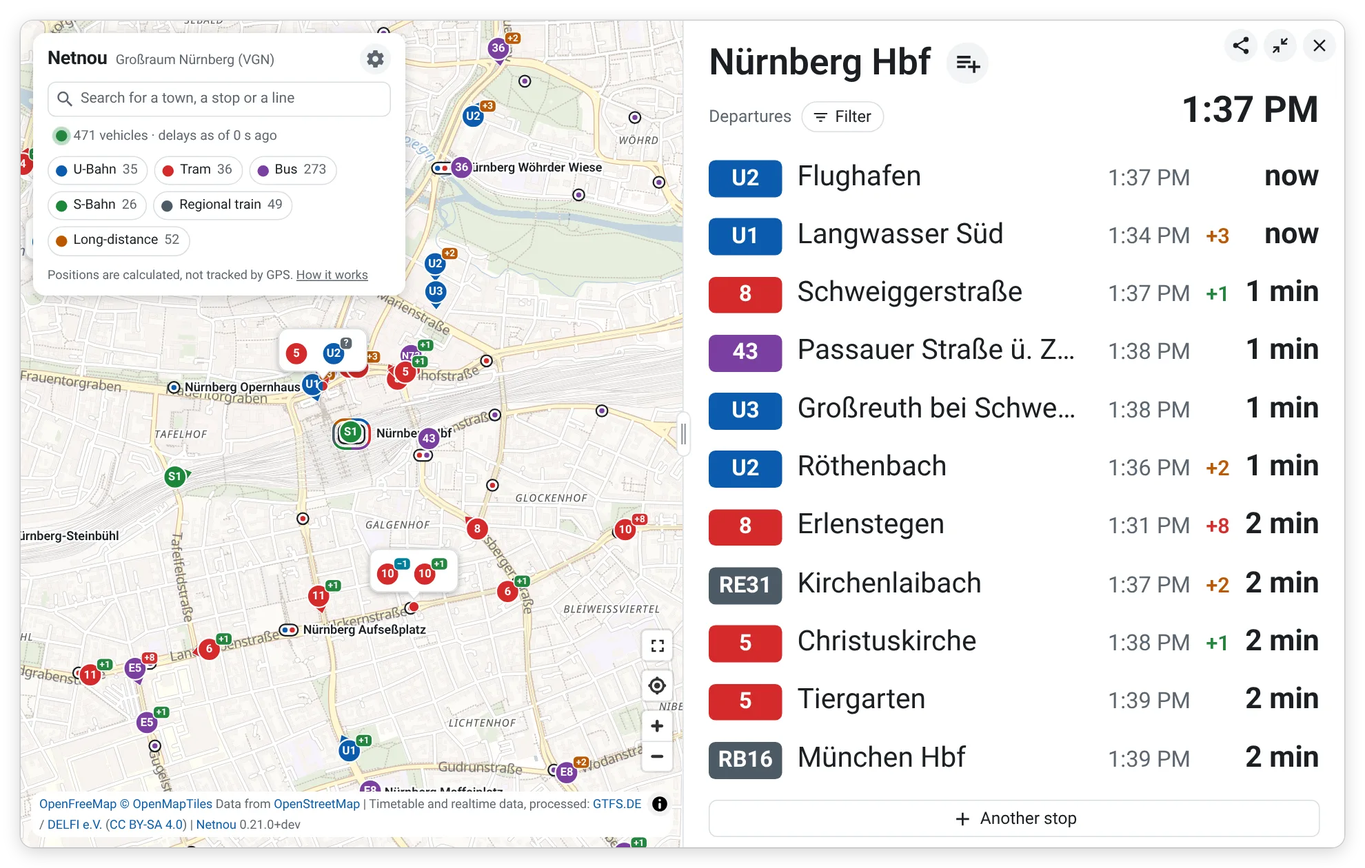
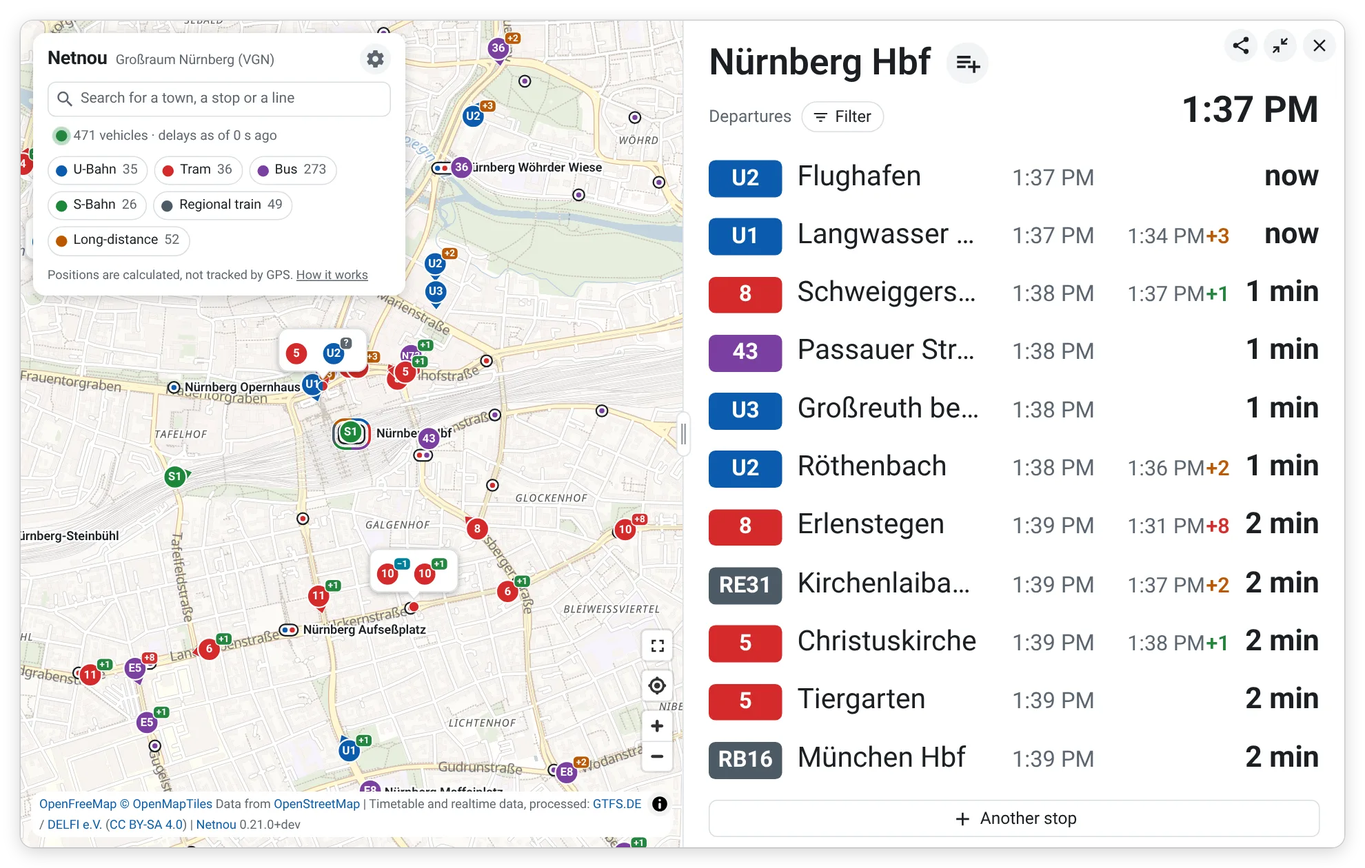
feat(page): times in the lists are when a train leaves, the delay a sum with the planned time
The departures of a stop, its lines, a trip and the board showed the
planned time and the delay beside it ("13:39 +2"), while they are in the
order the trains leave: "13:39 +2" stood below "13:41 ±0", and a rider had
to add up, or to wonder whether the delay was in the time already.

Now the time shown is when the train leaves or arrives, the planned time
moved by its delay in whole minutes, as the minutes already count. Beside it
the delay is a sum with the planned time: "13:37 13:36+1", the planned time
grey and as wide as any clock time, so that the signs line up down a list.
On time "±0" stands alone in its place; without a delay known, nothing. The
board still says nothing where a train is on time. With "Minuten" the delay
stands alone beside the minutes, as before, and a departure more than an hour
off shows the time it leaves where the minutes stand. A screen reader hears
"geplant 13:36" / "planned 1:36 PM" before the delay. The vehicles' flags on
the map keep "+2".

The column of the delay is sized from the clock time of the language: 58 px
in German, where it was 30, and more for "1:36 PM".

diff --git a/test/panel.test.js b/test/panel.test.js
@@ -36,14 +36,20 @@ test('a delay is shown in whole minutes, and its colour is that of what it shows
 
 test('the departures of a stop: a row each that opens its trip, with its time, delay, line, destination and platform', () => {
   const board = { name: 'Plärrer', departures: [departure(4, { delay: 120, platform: '2' }), departure(70, { line: '4', mode: 'tram', to: 'Gibitzenhof' })] };
+  // the time it leaves, and beside it the delay as a sum with the planned time, which a screen reader is told is planned
   assert.equal(html(departureLists(board, drawing('time'))), '<ul class="rows">'
-    + '<li><button type="button" class="row departure times-time" data-trip="T4_20261023"><span class="time">10:04</span><span class="delay" data-delay="minor">+2</span><span class="badge" data-mode="subway">U1</span><span class="name" title="Langwasser Süd">Langwasser Süd</span><span class="platform">Plat. 2</span></button></li>'
+    + '<li><button type="button" class="row departure times-time" data-trip="T4_20261023"><span class="time">10:06</span><span class="delay" data-delay="minor"><span class="planned"><span aria-hidden="true">10:04</span><span class="spoken">planned 10:04 </span></span>+2</span><span class="badge" data-mode="subway">U1</span><span class="name" title="Langwasser Süd">Langwasser Süd</span><span class="platform">Plat. 2</span></button></li>'
     + '<li><button type="button" class="row departure times-time" data-trip="T70_20261023"><span class="time">11:10</span><span class="delay" data-delay="none"></span><span class="badge" data-mode="tram">4</span><span class="name" title="Gibitzenhof">Gibitzenhof</span><span class="platform"></span></button></li>'
     + '</ul>');
-  // in minutes, which the page counts down by themselves: with its delay, and beyond the hour its time of day
-  const minutes = html(departureLists(board, drawing('minutes')));
-  assert.ok(minutes.includes(`<span class="minutes" data-leaves="${NOW + 6 * 60}" data-planned="${NOW + 4 * 60}" data-far="time">6 min</span>`));
-  assert.ok(minutes.includes(`<span class="minutes" data-leaves="${NOW + 70 * 60}" data-planned="${NOW + 70 * 60}" data-far="time">11:10</span>`));
+  // on time, "±0" alone where the delays stand (the planned time would say the same); early, a sum with a minus
+  const early = html(departureLists({ name: 'Plärrer', departures: [departure(4, { delay: 20 }), departure(5, { delay: -60 })] }, drawing('time')));
+  assert.ok(early.includes('<span class="time">10:04</span><span class="delay" data-delay="ok"><span class="planned"></span>±0</span>'));
+  assert.ok(early.includes('<span class="time">10:04</span><span class="delay" data-delay="early"><span class="planned"><span aria-hidden="true">10:05</span><span class="spoken">planned 10:05 </span></span>−1</span>'));
+  // in minutes, which the page counts down by themselves: with the delay alone, and beyond the hour the time it leaves
+  const minutes = html(departureLists({ ...board, departures: [...board.departures, departure(80, { delay: 180 })] }, drawing('minutes')));
+  assert.ok(minutes.includes(`<span class="minutes" data-leaves="${NOW + 6 * 60}" data-far="time">6 min</span><span class="delay" data-delay="minor">+2</span>`));
+  assert.ok(minutes.includes(`<span class="minutes" data-leaves="${NOW + 70 * 60}" data-far="time">11:10</span>`));
+  assert.ok(minutes.includes(`<span class="minutes" data-leaves="${NOW + 83 * 60}" data-far="time">11:23</span><span class="delay" data-delay="minor">+3</span>`));
   // both: the time of day first, the minutes at the end, and nothing there beyond the hour
   const both = html(departureLists(board, drawing('both')));
   assert.ok(both.includes('<span class="platform">Plat. 2</span><span class="minutes" data-leaves'));
@@ -115,7 +121,7 @@ test('all lines of a stop: the badge of each leading to it, beside its ways with
   // the badge is a link to the line's page, which the page opens itself by what data-line says
   assert.ok(out.startsWith(`<h3 class="rows-head">${en['mode.subway']}</h3><ul class="line-rows"><li><a class="to-line" href="line/vag/subway/u1" aria-label="To line U1" title="To line U1" data-line="{&#34;name&#34;:&#34;U1&#34;,&#34;mode&#34;:&#34;subway&#34;,&#34;agency&#34;:&#34;VAG&#34;,&#34;at&#34;:[49.45,11.07]}"><span class="badge" data-mode="subway">U1<svg class="icon"`));
   // a way: its next departure as a row without the badge, which opens its trip, going where that trip goes
-  assert.ok(out.includes(`<ul><li><button type="button" class="row departure times-both by-line" data-trip="T4_20261023"><span class="time">10:04</span><span class="delay" data-delay="minor">+2</span><span class="name" title="Messe">Messe</span><span class="platform"></span><span class="minutes" data-leaves="${NOW + 6 * 60}"`));
+  assert.ok(out.includes(`<ul><li><button type="button" class="row departure times-both by-line" data-trip="T4_20261023"><span class="time">10:06</span><span class="delay" data-delay="minor"><span class="planned"><span aria-hidden="true">10:04</span><span class="spoken">planned 10:04 </span></span>+2</span><span class="name" title="Messe">Messe</span><span class="platform"></span><span class="minutes" data-leaves="${NOW + 6 * 60}"`));
   // one with no departure in the next 24 hours: in short where the time stands, in full under a mouse; it opens nothing
   assert.ok(out.includes(`<li><div class="row departure times-both by-line resting"><abbr class="later" title="${en['lines.laterLong']}">${en['lines.later']}</abbr><span class="name" title="Fürth Hardhöhe">Fürth Hardhöhe</span></div></li></ul></li></ul>`));
   // of another day: it says so where the minutes stand; and the kind and name are the line's
@@ -124,7 +130,7 @@ test('all lines of a stop: the badge of each leading to it, beside its ways with
   // of one kind only, no heading; in minutes, the minutes where the time stands; none at all, as the departures say it
   const minutes = html(lineLists({ lines: [u1] }, drawing('minutes')));
   assert.ok(minutes.startsWith('<ul class="line-rows"><li>'));
-  assert.ok(minutes.includes(`<button type="button" class="row departure times-minutes by-line" data-trip="T4_20261023"><span class="minutes" data-leaves="${NOW + 6 * 60}" data-planned="${NOW + 4 * 60}" data-far="time">6 min</span>`));
+  assert.ok(minutes.includes(`<button type="button" class="row departure times-minutes by-line" data-trip="T4_20261023"><span class="minutes" data-leaves="${NOW + 6 * 60}" data-far="time">6 min</span>`));
   assert.ok(minutes.includes('<div class="row departure times-minutes by-line resting">'));
   assert.equal(html(lineLists({ lines: [] }, drawing())), `<p class="panel-empty">${en['departures.none']}</p>`);
   // a list with a train that has something wrong with it keeps the place of the sign in every row

diff --git a/public/style.css b/public/style.css
@@ -778,13 +778,15 @@ button:focus-visible, select:focus-visible, .row:focus-visible, .panel:focus-vis
    notes. */
 .row .late { white-space: nowrap; }
 .row .late .delay { display: inline-block; width: 32px; }
-.rows.signed .row.departure { grid-template-columns: var(--time-width) 45px auto 1fr auto; }
+/* (with the planned time in it, see --late-width) */
+.row:not(.times-minutes) .late .delay { width: calc((var(--time-chars, 5) + 3) * 1ch + 2px); }
+.rows.signed .row.departure { grid-template-columns: var(--time-width) calc(var(--late-width) + 15px) auto 1fr auto; }
 /* Departure times as minutes (#81): in place of the time of day, or with both at the end of the row, after a platform. */
 .row .minutes { font-variant-numeric: tabular-nums; font-weight: 650; white-space: nowrap; }
 .row.departure.times-minutes { grid-template-columns: var(--minutes-width) 30px auto 1fr auto; }
 .rows.signed .row.departure.times-minutes { grid-template-columns: var(--minutes-width) 45px auto 1fr auto; }
-.row.departure.times-both { grid-template-columns: var(--time-width) 30px auto 1fr auto auto; }
-.rows.signed .row.departure.times-both { grid-template-columns: var(--time-width) 45px auto 1fr auto auto; }
+.row.departure.times-both { grid-template-columns: var(--time-width) var(--late-width) auto 1fr auto auto; }
+.rows.signed .row.departure.times-both { grid-template-columns: var(--time-width) calc(var(--late-width) + 15px) auto 1fr auto auto; }
 .row.departure.times-both .minutes { text-align: right; }
 .row.cancelled .minutes { text-decoration: line-through; color: var(--text-muted); font-weight: 400; }
 
@@ -909,22 +911,24 @@ button.line-vehicle { position: absolute; left: -18px; top: -18px; width: 36px; 
 .line-rows > li + li { margin-top: 4px; }
 .line-rows .to-line { justify-self: start; margin: 0; padding: 6px 10px 6px 14px; color: inherit; text-decoration: none; }
 .line-rows ul { list-style: none; margin: 0; padding: 0; min-width: 0; }
-.row.departure.by-line { padding-left: 0; grid-template-columns: var(--time-width) 30px minmax(0, 1fr) auto auto; }
+.row.departure.by-line { padding-left: 0; grid-template-columns: var(--time-width) var(--late-width) minmax(0, 1fr) auto auto; }
 .row.departure.by-line.times-minutes { grid-template-columns: var(--minutes-width) 30px minmax(0, 1fr) auto auto; }
-.line-rows.signed .row.departure.by-line { grid-template-columns: var(--time-width) 45px minmax(0, 1fr) auto auto; }
+.line-rows.signed .row.departure.by-line { grid-template-columns: var(--time-width) calc(var(--late-width) + 15px) minmax(0, 1fr) auto auto; }
 .line-rows.signed .row.departure.by-line.times-minutes { grid-template-columns: var(--minutes-width) 45px minmax(0, 1fr) auto auto; }
 .row.by-line .day { color: var(--text-muted); white-space: nowrap; }
-.row.departure.by-line.resting { grid-template-columns: calc(var(--time-width) + 38px) minmax(0, 1fr); cursor: default; }
+.row.departure.by-line.resting { grid-template-columns: calc(var(--time-width) + var(--late-width) + 8px) minmax(0, 1fr); cursor: default; }
 .row.departure.by-line.resting.times-minutes { grid-template-columns: calc(var(--minutes-width) + 38px) minmax(0, 1fr); }
-.line-rows.signed .row.departure.by-line.resting { grid-template-columns: calc(var(--time-width) + 53px) minmax(0, 1fr); }
+.line-rows.signed .row.departure.by-line.resting { grid-template-columns: calc(var(--time-width) + var(--late-width) + 23px) minmax(0, 1fr); }
 .line-rows.signed .row.departure.by-line.resting.times-minutes { grid-template-columns: calc(var(--minutes-width) + 53px) minmax(0, 1fr); }
 .row.resting:hover { background: none; }
 .row.resting .later { color: var(--text-muted); font-size: 12.5px; white-space: nowrap; text-decoration: none; }
 
-/* --time-chars: how many characters a clock time has at most in the visitor's language (app.js sets it) */
-.row { --time-width: calc(var(--time-chars, 5) * 1ch + 4px); --minutes-width: calc(var(--minutes-chars, 7) * 1ch + 4px); }
-.row.departure { grid-template-columns: var(--time-width) 30px auto 1fr auto; }
-.row.stop { grid-template-columns: 14px var(--time-width) 30px 1fr auto; }
+/* --time-chars: how many characters a clock time has at most in the visitor's language (app.js sets it).
+   --late-width: the delay as a sum with the planned time, "13:36+12": a clock
+   time and three characters more, in the delay's 12.5 px (0.9 of the row's ch). */
+.row { --time-width: calc(var(--time-chars, 5) * 1ch + 4px); --minutes-width: calc(var(--minutes-chars, 7) * 1ch + 4px); --late-width: calc((var(--time-chars, 5) + 3) * 0.9ch + 2px); }
+.row.departure { grid-template-columns: var(--time-width) var(--late-width) auto 1fr auto; }
+.row.stop { grid-template-columns: 14px var(--time-width) var(--late-width) 1fr auto; }
 .row.stop.past { color: var(--text-muted); }
 .row.stop.next .name { font-weight: 650; }
 
@@ -959,6 +963,11 @@ li:last-child > .row.stop .rail::before { bottom: 50%; }
 
 /* As text a delay is one class "hotter" than as a dot: the yellow is too pale to read on the card. */
 .delay { font-size: 12.5px; font-weight: 650; font-variant-numeric: tabular-nums; white-space: nowrap; }
+/* The planned time before a delay, as a sum with it: grey, and as wide as any
+   clock time, so that the signs line up down a list; empty where on time (delaySum in panel.js). */
+.delay .planned { display: inline-block; width: calc(var(--time-chars, 5) * 1ch); margin-right: 1px; text-align: right; color: var(--text-muted); font-weight: 400; }
+/* (said by a screen reader, not seen) */
+.spoken { position: absolute; width: 1px; height: 1px; overflow: hidden; clip-path: inset(50%); white-space: nowrap; }
 .delay[data-delay="early"] { color: var(--delay-early-text); }
 .delay[data-delay="ok"] { color: var(--delay-ok-text); }
 .delay[data-delay="minor"] { color: var(--delay-major-text); }

diff --git a/public/app.js b/public/app.js
@@ -13,7 +13,7 @@ import { APP_NAME, READMES, dayOf, formatNumber, formatTime, languagePicker, loa
 import { FAVOURITE_NAME_ZOOM, HEART_MIDDLE, PLACES_ZOOM, RAIL_MODES, heartMark, joiningLines, mergePlaces, namePrecedence, namedAt, placeNames, stopMark, townToShow, townsAlong, withoutStyleStops } from './stops.js';
 import { favouritesFrom, isFavourite, lineFavourite, sameStop, stopFavourite, withChoice, withFavourite } from './favourites.js';
 import { choiceValue, readChoice, toggled } from './choice.js';
-import { DELAY_MAJOR_S, DELAY_MINOR_S, DELAY_SEVERE_S, MINUTES_MAX, NOTE_CHARS, badge as badgeOf, choiceChip as choiceChipOf, delayCell as delayCellOf, delayClass, delayNode as delayNodeOf, delayFlag, delayText, departureLists, departuresSub as departuresSubOf, directionSign as directionSignOf, leavesAt, lineHead, lineLists, lineStops, minutesNode as minutesNodeOf, trackAt, VEHICLE_R, panelHead as panelHeadOf, stopHeading, tomorrowAt as tomorrowAtOf, untilText as untilTextOf, vehicleLabel, warningSign as warningSignOf, warns } from './panel.js';
+import { DELAY_MAJOR_S, DELAY_MINOR_S, DELAY_SEVERE_S, MINUTES_MAX, NOTE_CHARS, badge as badgeOf, choiceChip as choiceChipOf, delayCell as delayCellOf, delayClass, delayNode as delayNodeOf, delaySum as delaySumOf, delayFlag, delayText, departureLists, departuresSub as departuresSubOf, directionSign as directionSignOf, leavesAt, lineHead, lineLists, lineStops, minutesNode as minutesNodeOf, trackAt, VEHICLE_R, panelHead as panelHeadOf, stopHeading, tomorrowAt as tomorrowAtOf, untilText as untilTextOf, vehicleLabel, warningSign as warningSignOf, warns } from './panel.js';
 import { BOARD_MAX, BOARD_SHARE, BOARD_STOPS, boardBlocks, boardQuery, boardShare, displayQuery, ledBy, readBoard, readDisplay, readStops } from './display.js';
 import { mdiArrowCollapse, mdiArrowExpand, mdiChevronRight, mdiCityVariantOutline, mdiFullscreen, mdiFullscreenExit, mdiHeart, mdiHeartOutline, mdiMinusCircleOutline, mdiPlaylistPlus, mdiPlus } from './vendor/material-design-icons/icons.js';
 import { AttributionControl, MapLibreMap, NavigationControl } from './vendor/maplibre-gl/maplibre-gl.mjs';
@@ -3238,8 +3238,8 @@ function renderTrip(trip, scrollToNext) {
     if (towns[i]) classes.push('in-town');
     const row = el('button', { type: 'button', class: classes.join(' '), onclick: () => select('station', stop.station) }, [
       el('span', { class: 'rail' }),
-      el('span', { class: 'time', text: formatTime(planned) }),
-      stop.skipped ? el('span') : delayNode(delay),
+      el('span', { class: 'time', text: formatTime(leavesAt({ planned, delay })) }),
+      stop.skipped ? el('span') : delaySum(planned, delay),
       nameInTown(stop.name, towns[i], { title: stop.name }),
       el('span', { class: 'platform', text: stop.skipped ? t('stop.skipped') : platformText(stop.platform) }),
     ]);
@@ -3382,8 +3382,13 @@ function renderLine(line, first) {
 const minutesUntil = (leaves) => Math.floor(leaves / 60) - Math.floor(now() / 60);
 
 /** How long until a departure leaves (panel.js). */
-function untilText(leaves, planned, far) {
-  return untilTextOf(leaves, planned, far, drawing());
+function untilText(leaves, far) {
+  return untilTextOf(leaves, far, drawing());
+}
+
+/** A delay beside the time a train leaves or arrives, as a sum with the planned time (panel.js). */
+function delaySum(planned, delay) {
+  return toDom(delaySumOf(planned, delay, drawing()));
 }
 
 /** The minutes until a departure leaves, which count down by themselves between two answers of the server (tickTimes). */
@@ -3402,7 +3407,7 @@ function tickTimes() {
   const update = (node, text) => {
     if (node.textContent !== text) node.textContent = text;
   };
-  for (const node of panel.querySelectorAll('.minutes[data-leaves]')) update(node, untilText(Number(node.dataset.leaves), Number(node.dataset.planned), node.dataset.far));
+  for (const node of panel.querySelectorAll('.minutes[data-leaves]')) update(node, untilText(Number(node.dataset.leaves), node.dataset.far));
   const clock = panel.querySelector('.board-clock');
   if (clock) update(clock, formatTime(now()));
 }
@@ -3738,10 +3743,11 @@ function renderBoard(board) {
 function boardRow(dep, times, from = null) {
   // (a delay shows where there is one: on time the board says nothing)
   const delay = Math.round((dep.delay ?? 0) / 60) === 0 ? null : dep.delay;
-  const late = delayCell(delayNode(delay), dep.warnings, dep.warnings.length > 0);
+  // (with the time it leaves, as a sum with the planned time; before the minutes, alone)
+  const late = delayCell(times === 'minutes' ? delayNode(delay) : delaySum(dep.planned, delay), dep.warnings, dep.warnings.length > 0);
   // (further off than an hour, the time of day stands where the minutes do, and with both not twice)
   const far = minutesUntil(leavesAt(dep)) > MINUTES_MAX;
-  const at = (shown = true) => el('span', { class: 'at', text: shown ? formatTime(dep.planned) : '' });
+  const at = (shown = true) => el('span', { class: 'at', text: shown ? formatTime(leavesAt(dep)) : '' });
   const when = dep.cancelled ? [el('span', { class: 'gone', text: t('departures.cancelled') })]
     : times === 'time' ? [at(), late]
       : times === 'minutes' ? [late, minutesNode(dep, 'time')]

diff --git a/public/panel.js b/public/panel.js
@@ -81,6 +81,24 @@ export const badge = (line, mode, ...more) => h('span', { class: 'badge', 'data-
 
 export const delayNode = (delay) => h('span', { class: 'delay', 'data-delay': delayClass(delay) }, delayText(delay));
 
+/**
+ * The delay where a list shows the time a train leaves or arrives: as a sum
+ * with the planned time, "13:36+1" after "13:37", the planned time grey and
+ * as wide as any clock time, so that the signs line up down the list
+ * (style.css). On time the planned time is left out and "±0" stands
+ * in its place; without a delay known, nothing. A screen reader hears
+ * "planned 13:36" before the delay.
+ * @param context { t, time }: the texts and the time of day of a moment
+ */
+export function delaySum(planned, delay, { t, time }) {
+  const text = delayText(delay);
+  if (!text) return delayNode(delay);
+  const shown = leavesAt({ planned, delay }) !== planned;
+  return h('span', { class: 'delay', 'data-delay': delayClass(delay) },
+    h('span', { class: 'planned' }, shown ? [h('span', { 'aria-hidden': 'true' }, time(planned)), h('span', { class: 'spoken' }, `${t('departures.planned', { time: time(planned) })} `)] : null),
+    text);
+}
+
 /** Whether a note of the feed warns: of what is wrong with a trip or a stop right now, such as the reason for a delay. */
 export const warns = (note) => note.severity === 'warning' || note.severity === 'severe';
 
@@ -125,21 +143,21 @@ export const leavesAt = (dep) => dep.planned + Math.round((dep.delay ?? 0) / 60)
 
 /**
  * How long until a departure leaves: "4 min", "now" under a minute. Further
- * off than an hour its time of day says more (#165): that, or nothing where
- * the row has it already.
+ * off than an hour the time it leaves says more (#165): that, or nothing
+ * where the row has it already.
  * @param far 'time' or 'none': what stands there beyond the hour
  * @param context { t, time, now }: the texts, the time of day of a moment, and now (epoch seconds)
  */
-export function untilText(leaves, planned, far, { t, time, now }) {
+export function untilText(leaves, far, { t, time, now }) {
   const minutes = Math.floor(leaves / 60) - Math.floor(now / 60);
-  if (minutes > MINUTES_MAX) return far === 'time' ? time(planned) : '';
+  if (minutes > MINUTES_MAX) return far === 'time' ? time(leaves) : '';
   return minutes < 1 ? t('departures.now') : t('departures.minutes', { count: minutes });
 }
 
 /** The minutes until a departure leaves, which the page counts down by themselves between two answers of the server (tickTimes in app.js). */
 export function minutesNode(dep, far, context) {
   const leaves = leavesAt(dep);
-  return h('span', { class: 'minutes', 'data-leaves': leaves, 'data-planned': dep.planned, 'data-far': far }, untilText(leaves, dep.planned, far, context));
+  return h('span', { class: 'minutes', 'data-leaves': leaves, 'data-far': far }, untilText(leaves, far, context));
 }
 
 /**
@@ -175,8 +193,10 @@ export function departureLists(board, context) {
 }
 
 /**
- * The row of a departure, which opens its trip: the time of day first, or
- * the minutes in its place; with both, the minutes at the end of the row.
+ * The row of a departure, which opens its trip: the time it leaves first,
+ * with the planned time and the delay beside it as a sum (delaySum), or the
+ * minutes in its place with the delay alone; with both, the minutes at the
+ * end of the row.
  * @param signed whether a train of its list has something wrong with it (delayCell)
  * @param byLine whether it is the next departure of a way in the list of a
  *   stop's lines (lineLists): without the badge, which its line has, and
@@ -186,8 +206,8 @@ function departureRow(dep, signed, context, byLine = false) {
   const { t, time, day, now, times } = context;
   const later = byLine && day(dep.planned) > day(now);
   return h('button', { type: 'button', class: `row departure times-${times}${byLine ? ' by-line' : ''}${dep.cancelled ? ' cancelled' : ''}`, 'data-trip': dep.trip },
-    times === 'minutes' ? minutesNode(dep, 'time', context) : h('span', { class: 'time' }, time(dep.planned)),
-    delayCell(dep.cancelled ? h('span', { class: 'delay' }) : delayNode(dep.delay), dep.warnings, signed, context),
+    times === 'minutes' ? minutesNode(dep, 'time', context) : h('span', { class: 'time' }, time(leavesAt(dep))),
+    delayCell(dep.cancelled ? h('span', { class: 'delay' }) : times === 'minutes' ? delayNode(dep.delay) : delaySum(dep.planned, dep.delay, context), dep.warnings, signed, context),
     byLine ? null : badge(dep.line, dep.mode),
     h('span', { class: 'name', title: dep.to }, dep.to),
     h('span', { class: 'platform' }, dep.cancelled ? t('departures.cancelled') : dep.platform ? t('stop.platform', { platform: dep.platform }) : ''),

diff --git a/test/page.test.js b/test/page.test.js
@@ -486,13 +486,13 @@ test('the page of a stop or a line has its details in it as they are, with their
   assert.ok(panelHtml('stop', { ...board, name: 'Nürnberg Plärrer', town: 'Nürnberg' }, at).head.startsWith('<div class="panel-head"><h1>Nürnberg Plärrer</h1>'));
   assert.ok(stop.head.startsWith('<div class="panel-head"><h1>Plärrer</h1><p class="sub with-choice"><span class="view-switch" role="group" aria-label="Ansicht"><button type="button" aria-pressed="true" data-view="departures">Nächste Abfahrten</button><button type="button" aria-pressed="false" data-view="lines">Alle Linien</button></span><span class="choice"><button type="button" class="choice-open" aria-label="Filter"'));
   // the times as the page shows them until the visitor chooses otherwise, both: the time of day where the area is, and the minutes
-  assert.equal(stop.body, '<ul class="rows"><li><button type="button" class="row departure times-both" data-trip="T1_20261023"><span class="time">12:04</span><span class="delay" data-delay="ok">+1</span><span class="badge" data-mode="subway">U1</span><span class="name" title="Langwasser Süd">Langwasser Süd</span><span class="platform">Gl. 2</span>'
-    + `<span class="minutes" data-leaves="${now + 300}" data-planned="${now + 240}" data-far="none">5 min</span></button></li></ul>`
+  assert.equal(stop.body, '<ul class="rows"><li><button type="button" class="row departure times-both" data-trip="T1_20261023"><span class="time">12:05</span><span class="delay" data-delay="ok"><span class="planned"><span aria-hidden="true">12:04</span><span class="spoken">geplant 12:04 </span></span>+1</span><span class="badge" data-mode="subway">U1</span><span class="name" title="Langwasser Süd">Langwasser Süd</span><span class="platform">Gl. 2</span>'
+    + `<span class="minutes" data-leaves="${now + 300}" data-far="none">5 min</span></button></li></ul>`
     // and behind the switch all its lines, each a link to its page (#255)
     + '<div class="view-lines" hidden><ul class="line-rows"><li><a class="to-line" href="line/vag/subway/u1" aria-label="Zur Linie U1" title="Zur Linie U1" data-line="{&#34;name&#34;:&#34;U1&#34;,&#34;mode&#34;:&#34;subway&#34;,&#34;agency&#34;:&#34;VAG&#34;,&#34;at&#34;:[49.45,11.07]}">'
     + '<span class="badge" data-mode="subway">U1<svg class="icon" viewBox="0 0 24 24" aria-hidden="true"><path d="M8.59,16.58L13.17,12L8.59,7.41L10,6L16,12L10,18L8.59,16.58Z"></path></svg></span></a>'
-    + '<ul><li><button type="button" class="row departure times-both by-line" data-trip="T1_20261023"><span class="time">12:04</span><span class="delay" data-delay="ok">+1</span><span class="name" title="Langwasser Süd">Langwasser Süd</span><span class="platform">Gl. 2</span>'
-    + `<span class="minutes" data-leaves="${now + 300}" data-planned="${now + 240}" data-far="none">5 min</span></button></li></ul></li></ul></div>`);
+    + '<ul><li><button type="button" class="row departure times-both by-line" data-trip="T1_20261023"><span class="time">12:05</span><span class="delay" data-delay="ok"><span class="planned"><span aria-hidden="true">12:04</span><span class="spoken">geplant 12:04 </span></span>+1</span><span class="name" title="Langwasser Süd">Langwasser Süd</span><span class="platform">Gl. 2</span>'
+    + `<span class="minutes" data-leaves="${now + 300}" data-far="none">5 min</span></button></li></ul></li></ul></div>`);
   // a screen on a wall set up for one purpose has neither switch nor chip, nor the lines
   const fixed = panelHtml('stop', board, { ...at, fixed: true });
   assert.equal(fixed.head, '<div class="panel-head"><h1>Plärrer</h1><p class="sub">Abfahrten</p></div>');

diff --git a/public/locales/en.js b/public/locales/en.js
@@ -255,6 +255,7 @@ export default {
   'departures.cancelled': 'cancelled',
   // how long until a departure leaves: under a minute, and in whole minutes
   'departures.now': 'now',
+  'departures.planned': 'planned {time}',
   'departures.minutes': '{count} min',
   // the line in a list of departures where the next day begins
   'departures.tomorrow': 'tomorrow',

diff --git a/public/locales/de.js b/public/locales/de.js
@@ -190,6 +190,7 @@ export default {
   'departures.none': 'Keine Abfahrten in den nächsten 24 Stunden.',
   'departures.cancelled': 'fällt aus',
   'departures.now': 'jetzt',
+  'departures.planned': 'geplant {time}',
   'departures.minutes': '{count} min',
   'departures.tomorrow': 'morgen',
 

diff --git a/docs/architecture.md b/docs/architecture.md
@@ -858,10 +858,14 @@ otherwise a server would load a file written by older code:
   the address of the stop (`board=<share>`), also with the controls, so that
   the address opens it again and `display=fixed` puts it on a wall. How
   departure times show is one setting for every list of them: the time of
-  day, the minutes until a train leaves, counted from when it actually
-  leaves and counting down between two answers of the server, or both; on
-  the board a clock can be switched off. Minutes go up to an hour; a train
-  further off shows its time of day in their place, and where the next day
+  day a train leaves, the minutes until it leaves, counting down between
+  two answers of the server, or both; on the board a clock can be switched
+  off. Every time shown is when the train leaves or arrives, the planned
+  time moved by its delay: beside it the delay is a sum with the planned
+  time, "13:37 13:36+1", the planned time grey, so that a rider sees when to
+  be there, and that the delay is already in it; on time "±0" alone. Beside
+  minutes the delay stands alone. Minutes go up to an hour; a train further
+  off shows the time it leaves in their place, and where the next day
   begins, a line says "morgen". A board has up to four stops
   ([#163](https://github.com/xiidoz/netnou/issues/163)), each in a block of
   its own or merged into the list of the block before it, the address naming
